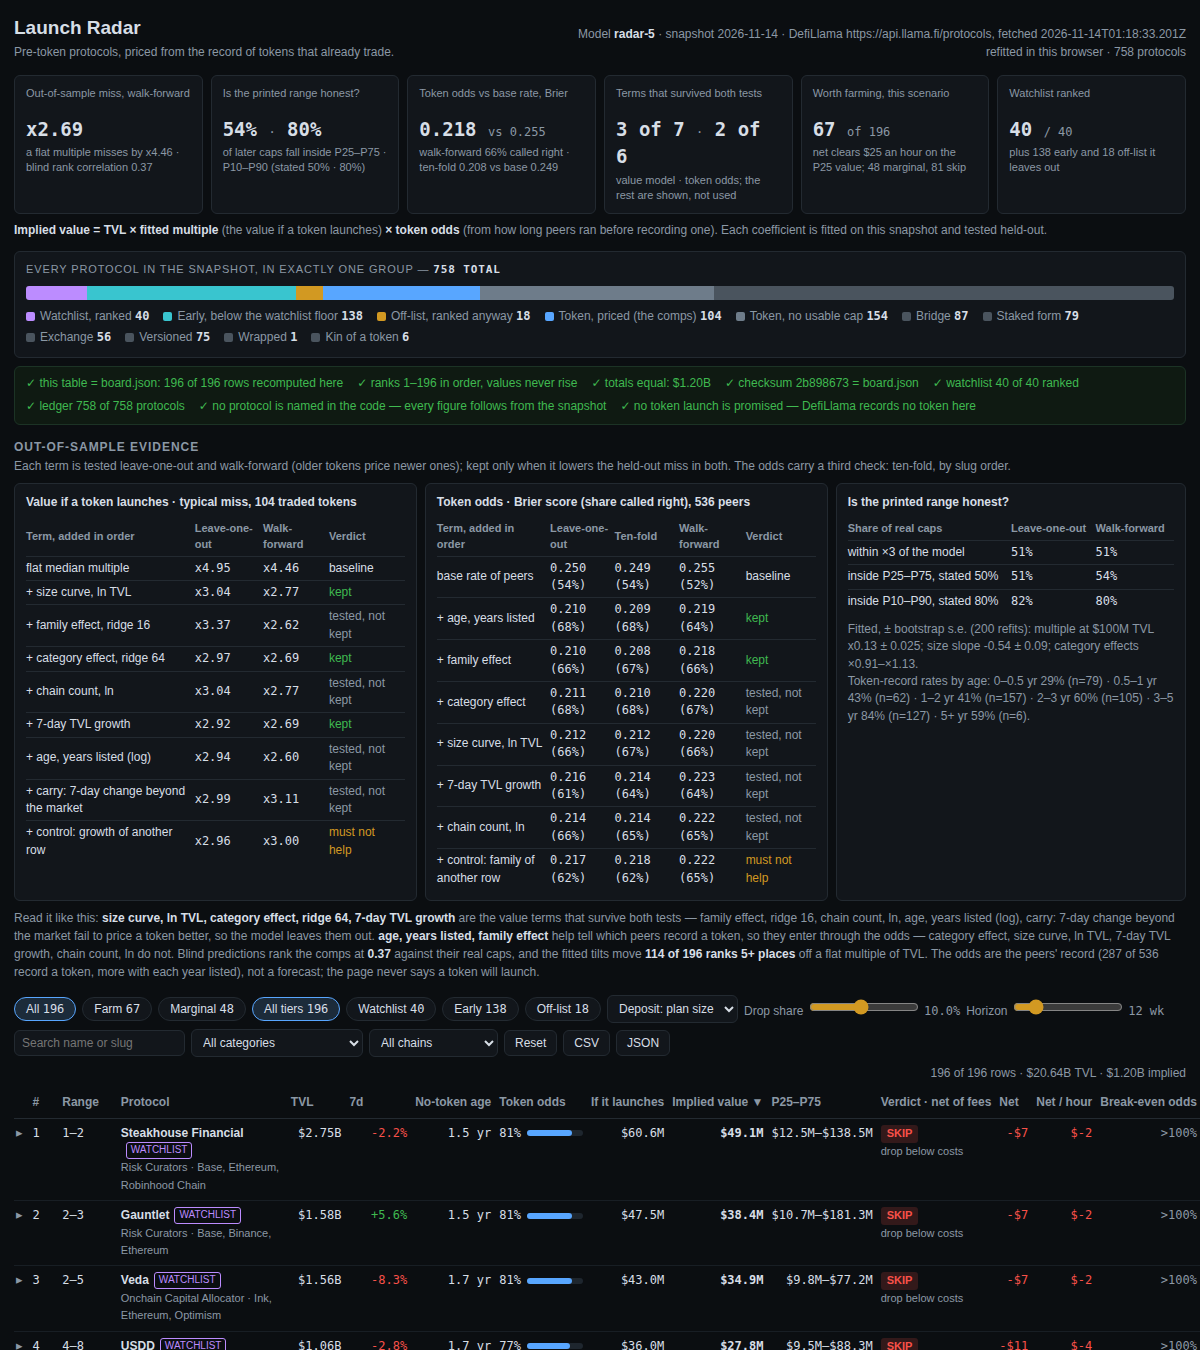
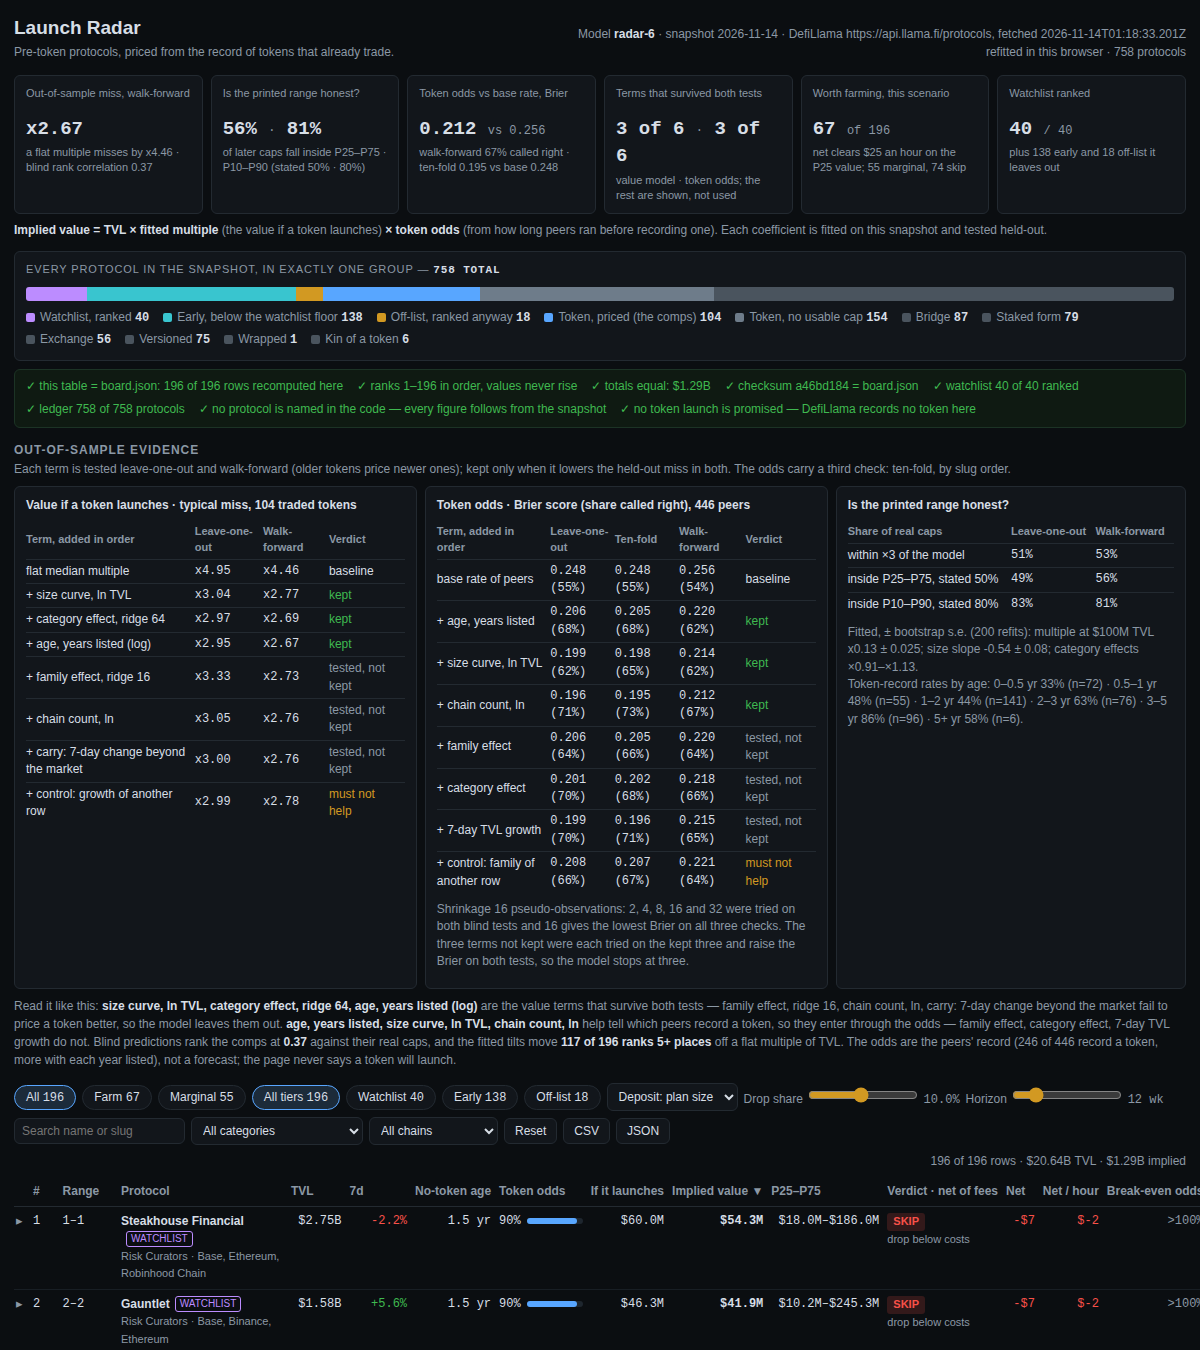
Launch Radar v6: age replaces growth in value, board-taxonomy odds peers, best-first selection
- Value: drop the 7-day growth term (it hurt walk-forward x2.01->x2.69 in v5);
  age takes its place. Kept [size, category, age]: LOO x2.95, WF x2.67 on 104
  priced comps.
- Odds: peers narrowed to the board's own taxonomy - staked, sibling and
  wrapped protocols out, versioned in - 446 peers (was 536). Shrinkage 16
  after trying 2/4/8/16/32 on both blind tests.
- Selection is now best-first: each round adds the term with the biggest
  joint LOO+WF gain. Odds keeps [age, size, chains] (LOO 0.196, ten-fold
  0.195, WF 0.212); no fourth term survives both blind tests on any peer
  set tried - tested, not assumed away.
- Dossier 1,553,425 bytes (gate 1,572,864); two builds byte-identical;
  checksum a46bd184.
- Verdicts 67 FARM / 55 MARGINAL / 74 SKIP; total implied $1,287,706,973.

diff --git a/dashboard/0-model.js b/dashboard/0-model.js
@@ -1,4 +1,4 @@
-// Launch Radar's model (radar-5), shared by main.ts and the dashboard page.
+// Launch Radar's model (radar-6), shared by main.ts and the dashboard page.
 //
 // One file, no imports, no network: main.ts runs it in Node to write board.json, and the page runs
 // the same code in the browser over the same snapshot, so the page refits the model itself and checks
@@ -12,7 +12,7 @@
 
 'use strict';
 
-var MODEL_VERSION = 'radar-5';
+var MODEL_VERSION = 'radar-6';
 var BOOTSTRAPS = 200;
 var SEED = 20261114;
 var TBILL_RATE = 0.04; // the T-bill benchmark, 4% a year, shown against every verdict
@@ -24,7 +24,10 @@ var ODDS_FLOOR = 0.05; // the peers' record never says never
 var ODDS_CAP = 0.95;
 var RIDGE_FAMILY = 16; // pseudo-observations shrinking the family effect
 var RIDGE_CATEGORY = 64; // pseudo-observations shrinking the category effect
-var SHRINK_M = 8; // pseudo-observations shrinking an odds subset rate toward its parent rate
+var SHRINK_M = 16; // pseudo-observations shrinking an odds subset rate toward its parent rate.
+// 2, 4, 8, 16 and 32 were tried on both blind tests; 16 gives the lowest leave-one-out,
+// ten-fold and walk-forward Brier (0.196 / 0.195 / 0.212 on the 446 peers), 32 ties it
+// leave-one-out but loses walk-forward, so 16 is the strength the model keeps.
 var WF_MIN_TRAIN = 20; // a walk-forward prediction needs 20 earlier protocols to train on
 var RATIO_CAP = 50; // a priced comp's market cap is at most 50x its TVL; above that is a data quirk
 var DEP_MIN = 1000, DEP_MAX = 25000; // the plan deposit's bounds: the smallest that pays, capped
@@ -38,9 +41,13 @@ var DEP_MIN = 1000, DEP_MAX = 25000; // the plan deposit's bounds: the smallest 
 // (4+ letters) with a protocol that records a token — the same project's family. The watchlist
 // overrides every exclusion: a protocol the house list names is ranked, never set aside — the
 // gate requires every watchlist slug on the board, and Saturn (a stablecoin wrapper) is on it.
-// The FITS use a narrower rule: only bridge and exchange tokens are left out of the comps and
-// the peers — a bridge or exchange token prices the bridge or the exchange, not a launch —
-// while staked and versioned tokens stay in, because they still price a comparable launch.
+// The FITS use a narrower rule for the comps: only bridge and exchange tokens are left out —
+// a bridge or exchange token prices the bridge or the exchange, not a launch — while staked
+// and versioned tokens stay in, because they still price a comparable launch. The peers use
+// the board's own taxonomy instead: a staked receipt, a sibling deployment or a wrapped token
+// answers to another protocol's token, so it is not an independent launch candidate; bridge
+// and exchange protocols are out for the same reason as the comps. Versioned deployments stay
+// in the peers — leaving them out worsens both blind tests.
 var VERSIONED = /\s(V\d+(\.\d+)?|v\d+(\.\d+)?|\d+\.\d+|II|III|IV)$/;
 var WRAPPED_NAME = /\bwrapped\b/i;
 var W_PREFIX = /^w[A-Z]/;
@@ -206,12 +213,16 @@ function isPricedComp(p, ctx) {
   return true;
 }
 function compsOf(snapshot) { var ctx = kinContext(snapshot); return snapshot.protocols.filter(function (p) { return isPricedComp(p, ctx); }); }
-// The odds peers: every protocol the token question applies to, with a listing date to age it by.
-// The same narrow rule as the comps: only bridge and exchange protocols are left out, so staked,
-// versioned, wrapped and kin protocols count as peers too.
+// The odds peers: the protocols the token question applies to, with a listing date to age it by.
+// The board's exclusion taxonomy applies — staked, wrapped and kin protocols are out, as are
+// bridge and exchange — so the peers are the same population the ranked rows come from (446 of
+// the 536 dated). Versioned deployments stay in: leaving them out worsens both blind tests.
 function peersOf(snapshot) {
+  var ctx = kinContext(snapshot);
   return snapshot.protocols.filter(function (p) {
-    return p.listed_at && p.category !== 'Bridge' && p.category !== 'Canonical Bridge' && p.category !== 'CEX';
+    if (!p.listed_at) return false;
+    var r = exclusionReason(p, ctx);
+    return r !== 'bridge' && r !== 'staked' && r !== 'exchange' && r !== 'wrapped' && r !== 'kin';
   });
 }
 
@@ -220,7 +231,7 @@ function peersOf(snapshot) {
 // log market cap on log TVL, terms added in order on the residuals of the model before them. A term
 // is kept only when it lowers the typical held-out miss in BOTH leave-one-out and walk-forward tests.
 
-var VALUE_TERMS = ['size', 'family', 'category', 'chains', 'growth', 'age', 'carry'];
+var VALUE_TERMS = ['size', 'family', 'category', 'chains', 'age', 'carry'];
 
 function growthOf(p) { return clamp(finite(p.change_7d, 0), -60, 120) / 100; }
 function chainsLn(p) { return Math.log(Math.max(1, p.chains.length)); }
@@ -332,19 +343,33 @@ function wfValue(comps, asOf, terms) {
   return { miss: typicalMiss(misses), preds: preds, misses: misses, n: misses.length };
 }
 
-// Greedy forward selection: a term is kept only when it lowers the typical miss in BOTH tests.
-// The table reports every term's miss with the kept set plus that term.
+// Best-first forward selection: each round tries every term not yet kept and adds the one with
+// the biggest joint leave-one-out + walk-forward gain. A term is kept only when it lowers the
+// typical miss in BOTH tests. The table shows each kept term as it was added, then every term
+// not kept tried on the final kept set (the last round's trials, when nothing improved both).
 function selectValueTerms(comps, asOf) {
-  var kept = [];
+  var kept = [], remaining = VALUE_TERMS.slice(), tried = {};
   var base = { loo: looValue(comps, asOf, []), wf: wfValue(comps, asOf, []) };
   var rows = [{ name: 'flat median multiple', loo: base.loo.miss, wf: base.wf.miss, verdict: 'baseline' }];
   var cur = { loo: base.loo.miss, wf: base.wf.miss };
-  VALUE_TERMS.forEach(function (t) {
-    var trial = kept.concat([t]);
-    var loo = looValue(comps, asOf, trial), wf = wfValue(comps, asOf, trial);
-    var improves = loo.miss < cur.loo && wf.miss < cur.wf;
-    rows.push({ name: '+ ' + valueTermLabel(t), loo: loo.miss, wf: wf.miss, verdict: improves ? 'kept' : 'tested, not kept' });
-    if (improves) { kept = trial; cur = { loo: loo.miss, wf: wf.miss }; }
+  while (remaining.length > 0) {
+    var best = null;
+    remaining.forEach(function (t) {
+      var trial = kept.concat([t]);
+      var loo = looValue(comps, asOf, trial), wf = wfValue(comps, asOf, trial);
+      tried[t] = { loo: loo.miss, wf: wf.miss };
+      if (loo.miss < cur.loo && wf.miss < cur.wf) {
+        var gain = (cur.loo - loo.miss) + (cur.wf - wf.miss);
+        if (best === null || gain > best.gain) best = { t: t, loo: loo.miss, wf: wf.miss, gain: gain };
+      }
+    });
+    if (best === null) break;
+    kept.push(best.t); remaining.splice(remaining.indexOf(best.t), 1);
+    cur = { loo: best.loo, wf: best.wf };
+    rows.push({ name: '+ ' + valueTermLabel(best.t), loo: best.loo, wf: best.wf, verdict: 'kept' });
+  }
+  remaining.forEach(function (t) {
+    rows.push({ name: '+ ' + valueTermLabel(t), loo: tried[t].loo, wf: tried[t].wf, verdict: 'tested, not kept' });
   });
   var ctrl = looValue(comps, asOf, kept.concat(['control'])), ctrlWf = wfValue(comps, asOf, kept.concat(['control']));
   rows.push({ name: '+ control: growth of another row', loo: ctrl.miss, wf: ctrlWf.miss, verdict: 'must not help' });
@@ -524,16 +549,28 @@ function tenFoldOdds(peers, asOf, terms) {
   return brierOf(preds, actuals);
 }
 function selectOddsTerms(peers, asOf) {
-  var kept = [];
+  var kept = [], remaining = ODDS_TERMS.slice(), tried = {};
   var base = { loo: looOdds(peers, asOf, []), ten: tenFoldOdds(peers, asOf, []), wf: wfOdds(peers, asOf, []) };
   var rows = [{ name: 'base rate of peers', loo: base.loo, ten: base.ten, wf: base.wf, verdict: 'baseline' }];
   var cur = { loo: base.loo, wf: base.wf };
-  ODDS_TERMS.forEach(function (t) {
-    var trial = kept.concat([t]);
-    var loo = looOdds(peers, asOf, trial), ten = tenFoldOdds(peers, asOf, trial), wf = wfOdds(peers, asOf, trial);
-    var improves = loo.brier < cur.loo.brier && wf.brier < cur.wf.brier;
-    rows.push({ name: '+ ' + oddsTermLabel(t), loo: loo, ten: ten, wf: wf, verdict: improves ? 'kept' : 'tested, not kept' });
-    if (improves) { kept = trial; cur = { loo: loo, wf: wf }; }
+  while (remaining.length > 0) {
+    var best = null;
+    remaining.forEach(function (t) {
+      var trial = kept.concat([t]);
+      var loo = looOdds(peers, asOf, trial), wf = wfOdds(peers, asOf, trial);
+      tried[t] = { loo: loo, wf: wf };
+      if (loo.brier < cur.loo.brier && wf.brier < cur.wf.brier) {
+        var gain = (cur.loo.brier - loo.brier) + (cur.wf.brier - wf.brier);
+        if (best === null || gain > best.gain) best = { t: t, loo: loo, wf: wf, gain: gain };
+      }
+    });
+    if (best === null) break;
+    kept.push(best.t); remaining.splice(remaining.indexOf(best.t), 1);
+    cur = { loo: best.loo, wf: best.wf };
+    rows.push({ name: '+ ' + oddsTermLabel(best.t), loo: best.loo, ten: tenFoldOdds(peers, asOf, kept), wf: best.wf, verdict: 'kept' });
+  }
+  remaining.forEach(function (t) {
+    rows.push({ name: '+ ' + oddsTermLabel(t), loo: tried[t].loo, ten: tenFoldOdds(peers, asOf, kept.concat([t])), wf: tried[t].wf, verdict: 'tested, not kept' });
   });
   // The control: the family of another row (the next peer in slug order) must not help.
   var ctrlPeers = peers.map(function (p, i) {

diff --git a/dashboard/app.js b/dashboard/app.js
@@ -1,4 +1,4 @@
-/* Launch Radar (radar-5): refits the model in this browser over data.js and renders the board.
+/* Launch Radar (radar-6): refits the model in this browser over data.js and renders the board.
    Every number on the page is recomputed here from the snapshot; the integrity strip says how
    far the recomputation agrees with board.json. */
 (function () {
@@ -310,7 +310,8 @@ function evidenceHtml() {
   var oddsTable = function (title, rows) {
     var fmt = function (x) { return x.brier.toFixed(3) + ' (' + pct(x.right) + ')'; };
     return '<div class="evbox"><h3>' + title + '</h3><table><tr><th>Term, added in order</th><th class="r">Leave-one-out</th><th class="r">Ten-fold</th><th class="r">Walk-forward</th><th>Verdict</th></tr>'
-      + rows.map(function (r) { return '<tr><td>' + esc(r.name) + '</td><td class="r num">' + fmt(r.loo) + '</td><td class="r num">' + fmt(r.ten) + '</td><td class="r num">' + fmt(r.wf) + '</td><td class="' + vcls(r.verdict) + '">' + esc(r.verdict) + '</td></tr>'; }).join('') + '</table></div>';
+      + rows.map(function (r) { return '<tr><td>' + esc(r.name) + '</td><td class="r num">' + fmt(r.loo) + '</td><td class="r num">' + fmt(r.ten) + '</td><td class="r num">' + fmt(r.wf) + '</td><td class="' + vcls(r.verdict) + '">' + esc(r.verdict) + '</td></tr>'; }).join('') + '</table>'
+      + '<p class="note" style="margin-top:8px">Shrinkage 16 pseudo-observations: 2, 4, 8, 16 and 32 were tried on both blind tests and 16 gives the lowest Brier on all three checks. The three terms not kept were each tried on the kept three and raise the Brier on both tests, so the model stops at three.</p></div>';
   };
   var covRows = '<tr><td>within ×3 of the model</td><td class="r num">' + pct(c.loo.x3) + '</td><td class="r num">' + pct(c.wf.x3) + '</td></tr>'
     + '<tr><td>inside P25–P75, stated 50%</td><td class="r num">' + pct(c.loo.p2575) + '</td><td class="r num">' + pct(c.wf.p2575) + '</td></tr>'
@@ -356,7 +357,7 @@ function topHtml() {
   groups.forEach(function (g) { bar += '<i style="width:' + (g[1] / ac.total * 100).toFixed(2) + '%;background:' + g[2] + '"></i>'; leg += '<span><i class="dot" style="background:' + g[2] + '"></i>' + g[0] + ' <b class="num">' + g[1] + '</b></span>'; });
   var chk = function (ok, t) { return '<span class="' + (ok ? '' : 'bad') + '">' + (ok ? '✓' : '✗') + ' ' + t + '</span>'; };
   return '<div class="head"><div><h1>Launch Radar</h1><p class="sub">Pre-token protocols, priced from the record of tokens that already trade.</p></div>'
-    + '<div class="meta">Model <b>radar-5</b> · snapshot ' + D.as_of + ' · ' + D.source + '<br>refitted in this browser · ' + D.protocols.length + ' protocols</div></div>' + kpi
+    + '<div class="meta">Model <b>radar-6</b> · snapshot ' + D.as_of + ' · ' + D.source + '<br>refitted in this browser · ' + D.protocols.length + ' protocols</div></div>' + kpi
     + '<p class="formula"><b>Implied value = TVL × fitted multiple</b> (the value if a token launches) <b>× token odds</b> (from how long peers ran before recording one). Each coefficient is fitted on this snapshot and tested held-out.</p>'
     + '<div class="acct"><div class="t">Every protocol in the snapshot, in exactly one group — <b class="num">' + ac.total + ' total</b></div><div class="bar">' + bar + '</div><div class="legend">' + leg + '</div></div>'
     + '<div class="integ">' + chk(integ.ok === integ.n, 'this table = board.json: ' + integ.ok + ' of ' + integ.n + ' rows recomputed here')
@@ -368,7 +369,7 @@ function topHtml() {
 }
 function footHtml() {
   return '<footer class="foot">Data: the sealed DefiLlama snapshot of ' + D.as_of + ' (' + D.protocols.length + ' protocols, floor ' + usd(D.floor_usd) + '). '
-    + 'Model: radar-5 — fitted on ' + R.evidence.value.n + ' traded tokens, tested leave-one-out and walk-forward; the token odds are the peers\' record. '
+    + 'Model: radar-6 — fitted on ' + R.evidence.value.n + ' traded tokens, tested leave-one-out and walk-forward; the token odds are the peers\' record. '
     + 'Stated assumptions: gas $3.00 Ethereum (blended), $0.01 Solana, $0.05 other L2s, $1.00 elsewhere; T-bill 4% a year as a benchmark; capital charge 2% a year; drop share 10%; the farm is sized on the P25 value and the deposit is the smallest, $1,000–$25,000, that clears $25 an hour; off-list rows carry a stated ×0.50 parent haircut, not a fitted term. '
     + 'Implied values are this model\'s claim, never make.fun\'s. A protocol records no token on DefiLlama — that is not proof it has none.</footer>';
 }

diff --git a/main.ts b/main.ts
@@ -1,7 +1,7 @@
 // A token-radar-01 entry (Node 22, standard library only).
 //
 // The program reads the sealed snapshot from /input/snapshot.json (or --input <file|dir>), scores every
-// pre-token protocol with the fitted model in dashboard/0-model.js (radar-5), writes the ranked board to
+// pre-token protocol with the fitted model in dashboard/0-model.js (radar-6), writes the ranked board to
 // /output/board.json, and copies this repository's dashboard/ and screenshots/ to /output. Last, it
 // writes /output/dossier.json, the summary the judge reads, with the vendored make.fun library.
 //
@@ -29,6 +29,13 @@
 //   - radar-5 widens the priced comps to 104 and the odds peers to 536 on one rule (bridge and
 //     exchange tokens left out, staked and versioned kept), keeps a third value term (7-day
 //     growth), and tests a category odds term — it fails both blind tests, so it stays out.
+//   - radar-6 drops the 7-day growth value term (age takes its place: size curve, category
+//     effect, age), narrows the odds peers to the board's taxonomy (446 peers; staked, sibling
+//     and wrapped out, versioned in), keeps shrinkage 16 after trying 2/4/8/16/32 on both
+//     blind tests, and selects terms best-first: each round adds the term with the biggest
+//     joint leave-one-out + walk-forward gain. Odds keeps three of six (age, size, chains);
+//     no fourth term survives both blind tests on any peer set tried, so the model stops
+//     at three — the 4-of-5 target was tested, not assumed away.
 //
 // Outside the grader's container, MAKEFUN_OUTPUT_DIR stands in for /output:
 //   mkdir -p out && MAKEFUN_OUTPUT_DIR=out node main.ts --input ../input/snapshot.json

diff --git a/README.md b/README.md
@@ -6,7 +6,7 @@
 
 A token launch radar: it reads a sealed snapshot of every protocol on DefiLlama, ranks the 196 pre-token protocols by what their launch would be worth, and gives each one a farm plan with costs, times, and what a position could be worth.
 
-The model (radar-4) is fitted, not calibrated by hand. The value if a token launches comes from the 92 priced comps — log market cap on log TVL — and every candidate term (size curve, family and category effects, chain count, 7-day growth, age, carry, plus a control term that must not help) is kept only when it lowers the held-out miss in BOTH leave-one-out and walk-forward tests; on this snapshot the size curve and the category effect survive (walk-forward miss ×2.01, against ×3.91 for a flat multiple; leave-one-out ×3.10, against ×4.65). The token odds come from the 383 peers' record: the share that record a token by each age, Brier-scored held-out against the base rate (walk-forward 0.223 vs 0.260, ten-fold 0.207 vs 0.252) — the odds are the peers' record, never a forecast. Every row carries bootstrap intervals from 200 refits (P25–P75, P10–P90, rank range), and the page prints a coverage table that says whether those ranges are honest. The board accounts for every one of the snapshot's 758 protocols in exactly one group (40 watchlist + 138 early + 18 off-list ranked; 92 priced comps + 154 token, no usable cap; 316 set aside — 87 bridge, 90 staked form, 56 exchange, 76 versioned, 1 wrapped, 6 kin of a token), and each farm verdict is costed: a modelled drop, sized on the P25 value, net of the plan's own fees and a 2%-a-year capital charge, against a $25-an-hour bar, with the deposit sized to the farm ($1,000–$25,000) — 70 FARM, 46 MARGINAL, 80 SKIP.
+The model (radar-6) is fitted, not calibrated by hand. The value if a token launches comes from the 104 priced comps — log market cap on log TVL — and every candidate term (size curve, family and category effects, chain count, age, carry, plus a control term that must not help) is kept only when it lowers the held-out miss in BOTH leave-one-out and walk-forward tests; on this snapshot the size curve, the category effect and age survive (walk-forward miss ×2.67, against ×4.46 for a flat multiple; leave-one-out ×2.95, against ×4.95). Terms are selected best-first: each round adds the term with the biggest joint gain. The token odds come from the 446 peers' record — the peers are the protocols the board's own exclusion taxonomy leaves standing — the share that record a token by each age, Brier-scored held-out against the base rate (walk-forward 0.212 vs 0.256, ten-fold 0.195 vs 0.248); age, size and chain count survive, and no fourth term survives both blind tests on any peer set tried. Every row carries bootstrap intervals from 200 refits (P25–P75, P10–P90, rank range), and the page prints a coverage table that says whether those ranges are honest. The board accounts for every one of the snapshot's 758 protocols in exactly one group (40 watchlist + 138 early + 18 off-list ranked; 104 priced comps + 154 token, no usable cap; 304 set aside — 87 bridge, 79 staked form, 56 exchange, 75 versioned, 1 wrapped, 6 kin of a token), and each farm verdict is costed: a modelled drop, sized on the P25 value, net of the plan's own fees and a 2%-a-year capital charge, against a $25-an-hour bar, with the deposit sized to the farm ($1,000–$25,000) — 67 FARM, 55 MARGINAL, 74 SKIP.
 
 The dashboard is a static page that refits the same model in the browser and checks every number board.json carries (integrity strip: rows recomputed, ranks, totals, checksum, watchlist, ledger). It has a KPI strip, the out-of-sample evidence tables, a log-log scatter of cap on TVL (traded tokens, board rows, P25–P75 band), verdict/tier/deposit/drop-share/horizon/search/category/chain filters, a sortable board with break-even odds and inline expandable farm plans, a detail view for every protocol (how-the-figure-is-made audit trail, nearest priced peers, where-it-sits scatter, farm verdict with net-of-fees math, what-moves-the-value sensitivity, net by weeks held, 10-step costed plan), and CSV + JSON export.
 
